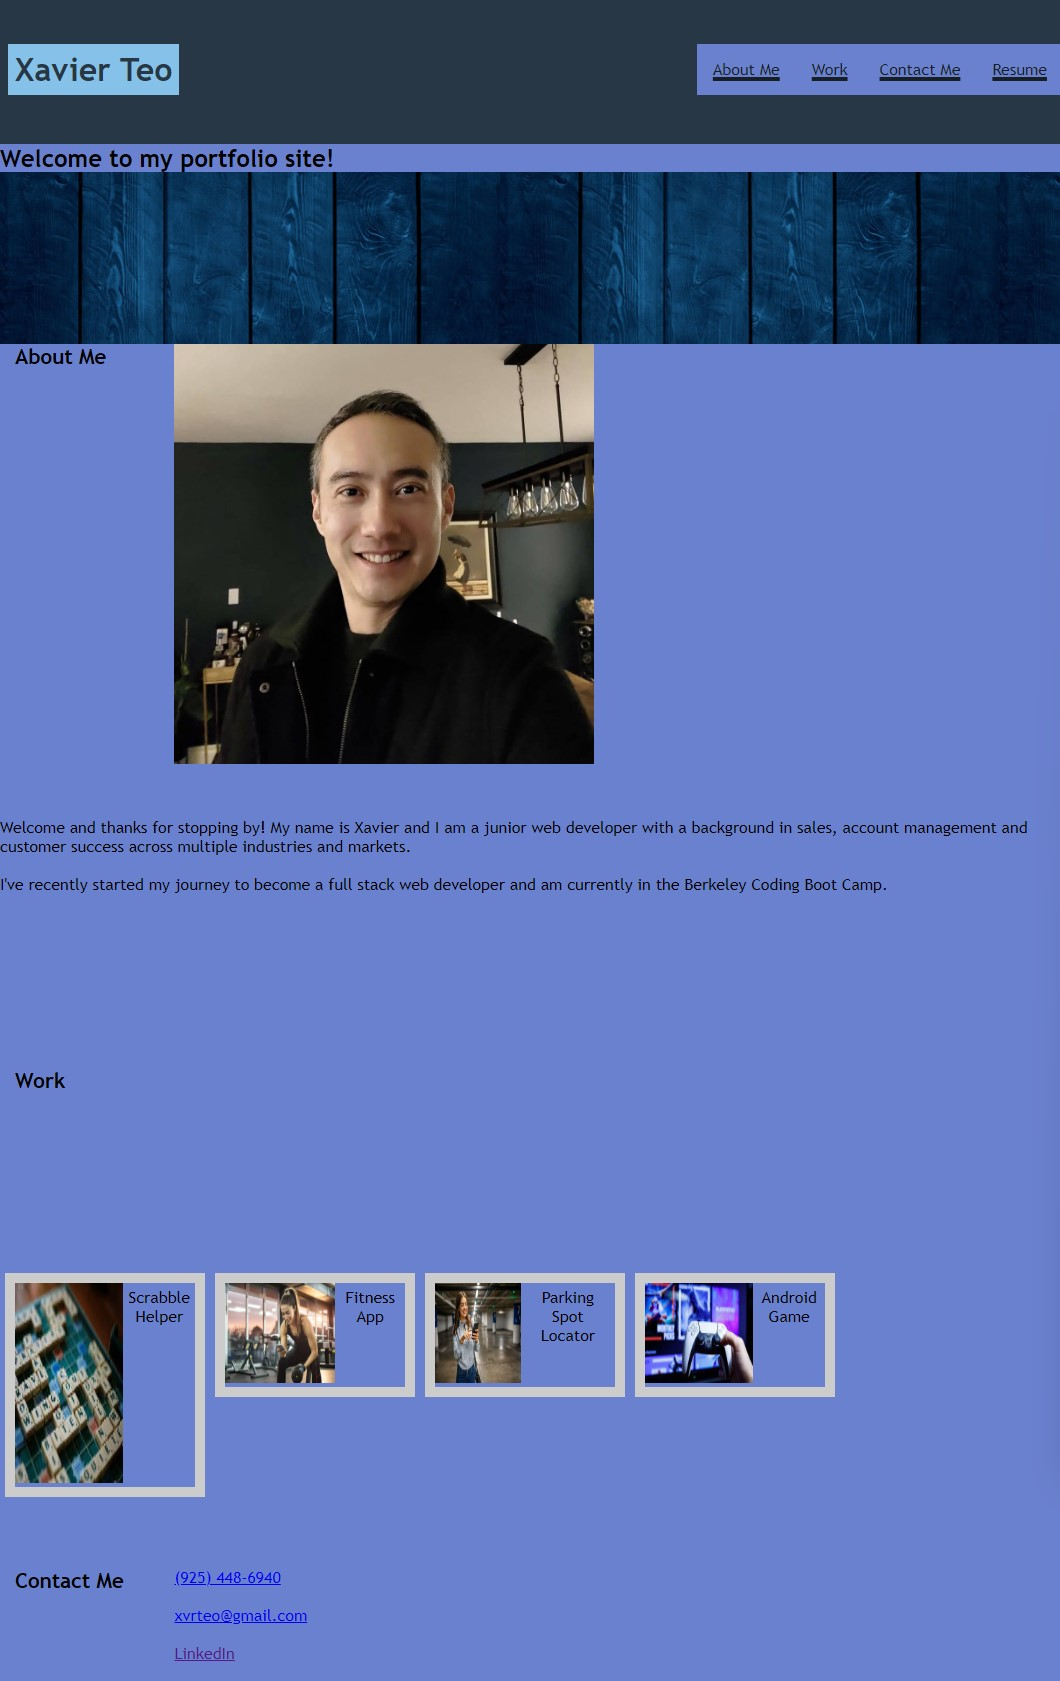
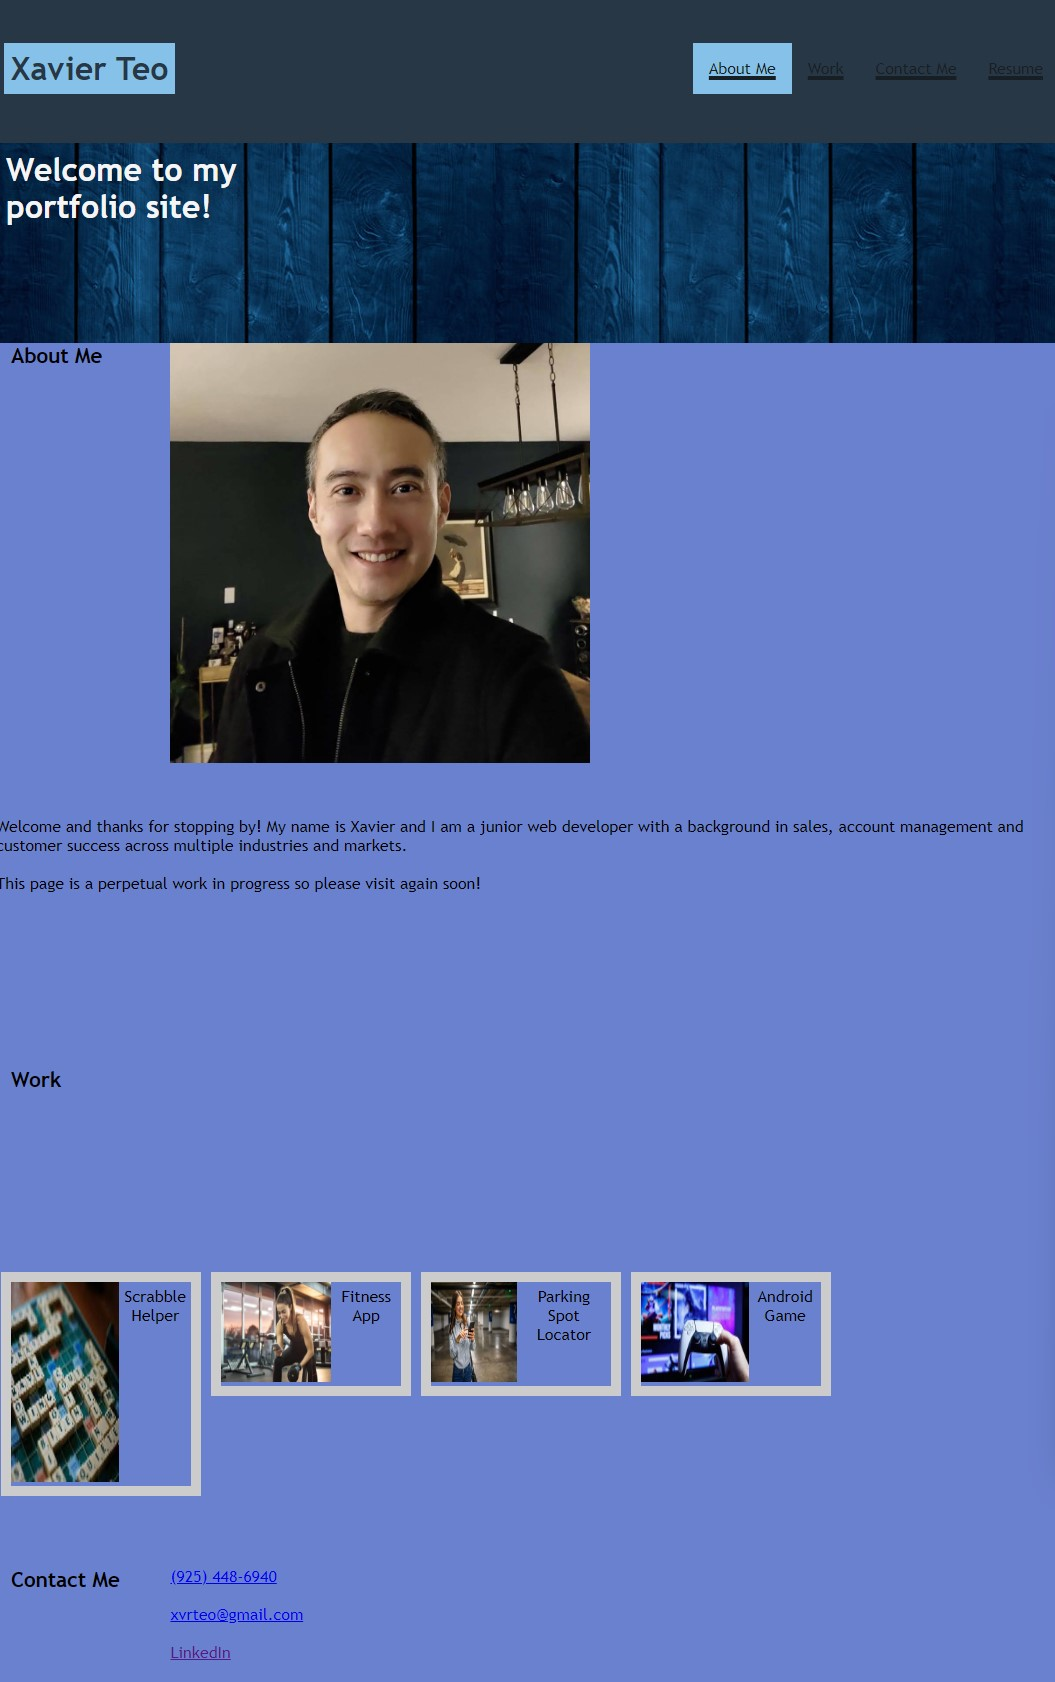
changed some text color

diff --git a/assets/css/style.css b/assets/css/style.css
@@ -3,7 +3,19 @@
     padding: 0;
     margin: 0;
     font-family: 'Trebuchet MS', 'Lucida Sans Unicode', 'Lucida Grande', 'Lucida Sans', Arial, sans-serif;
+}
+
+.body {
     background-color: #6a81cf;
+}
+
+#text-color {
+    font-size: 2rem;
+    color: whitesmoke;
+    padding: 8px 10px;
+    margin-right: 15px;
+    margin-bottom: 15px;
+    max-width: 300px;
 }
 
 .navbar {
@@ -40,7 +52,7 @@
 
 /* Add hover so that background color changes */
 .navbar-links li:hover {
-    background-color: #85929E;
+    background-color: #85C1E9;
 }
 
 /* Add responsive behaviour depending on screen size */

diff --git a/index.html b/index.html
@@ -8,7 +8,7 @@
     <title>Xavier Teo's Portfolio Website</title>
 </head>
 
-<body>
+<body class="body">
     <header class="header">
         <nav class="navbar">
             <h1>Xavier Teo</h1>
@@ -24,7 +24,7 @@
     </header>
 
     <section class="hero">
-        <h2>Welcome to my portfolio site!</h2>
+        <h2 id="text-color">Welcome to my portfolio site!</h2>
     </section>
 
     <section id="about" class="info">
